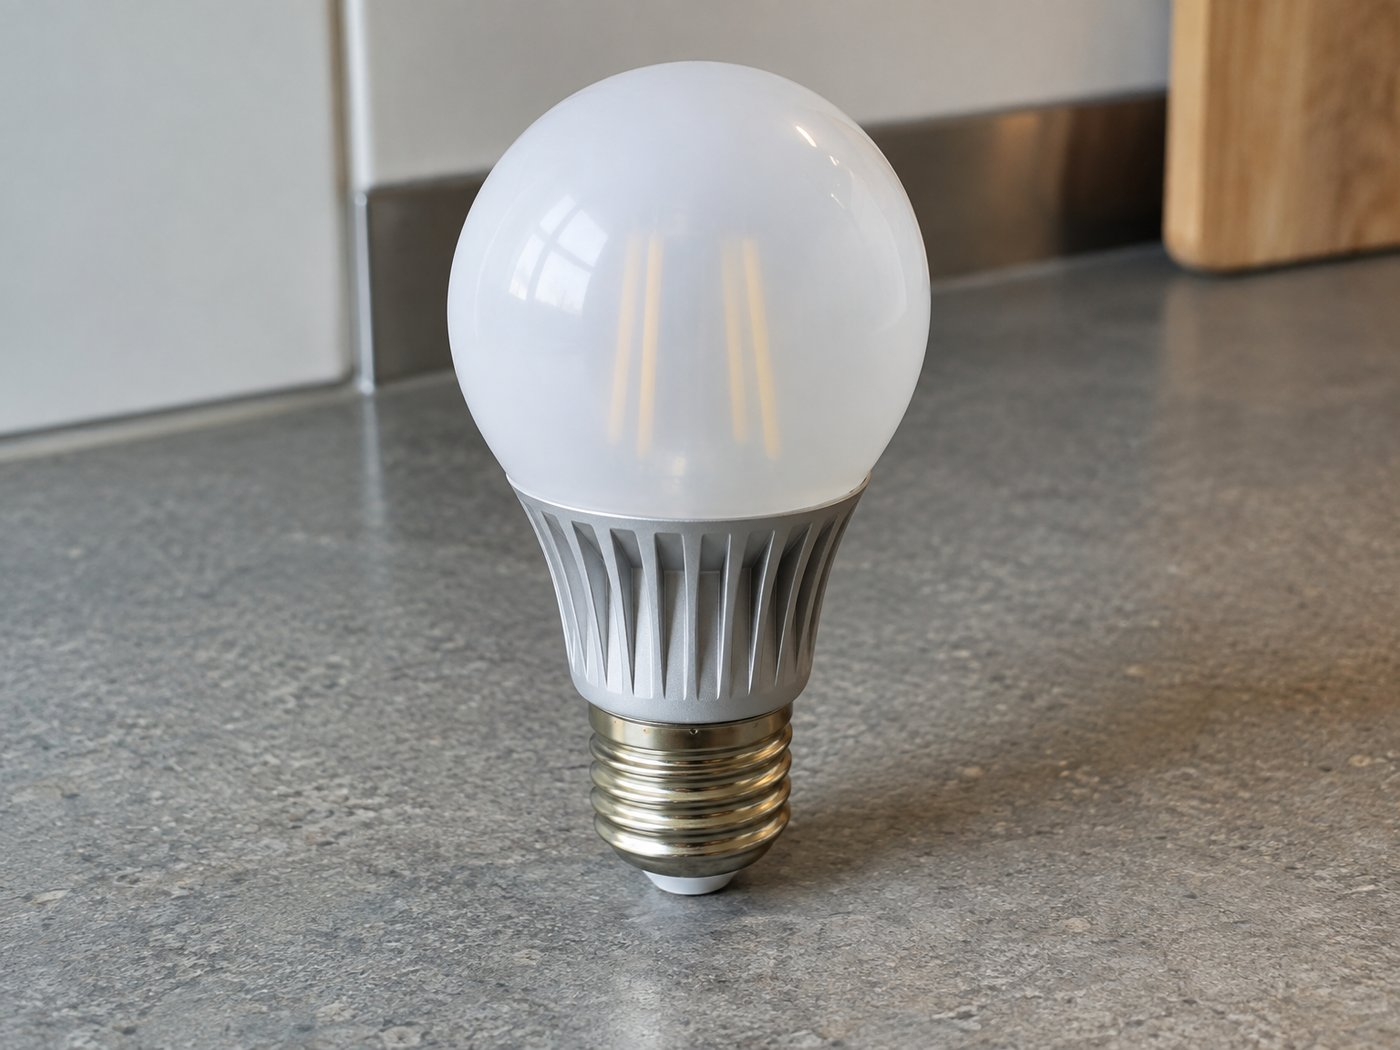
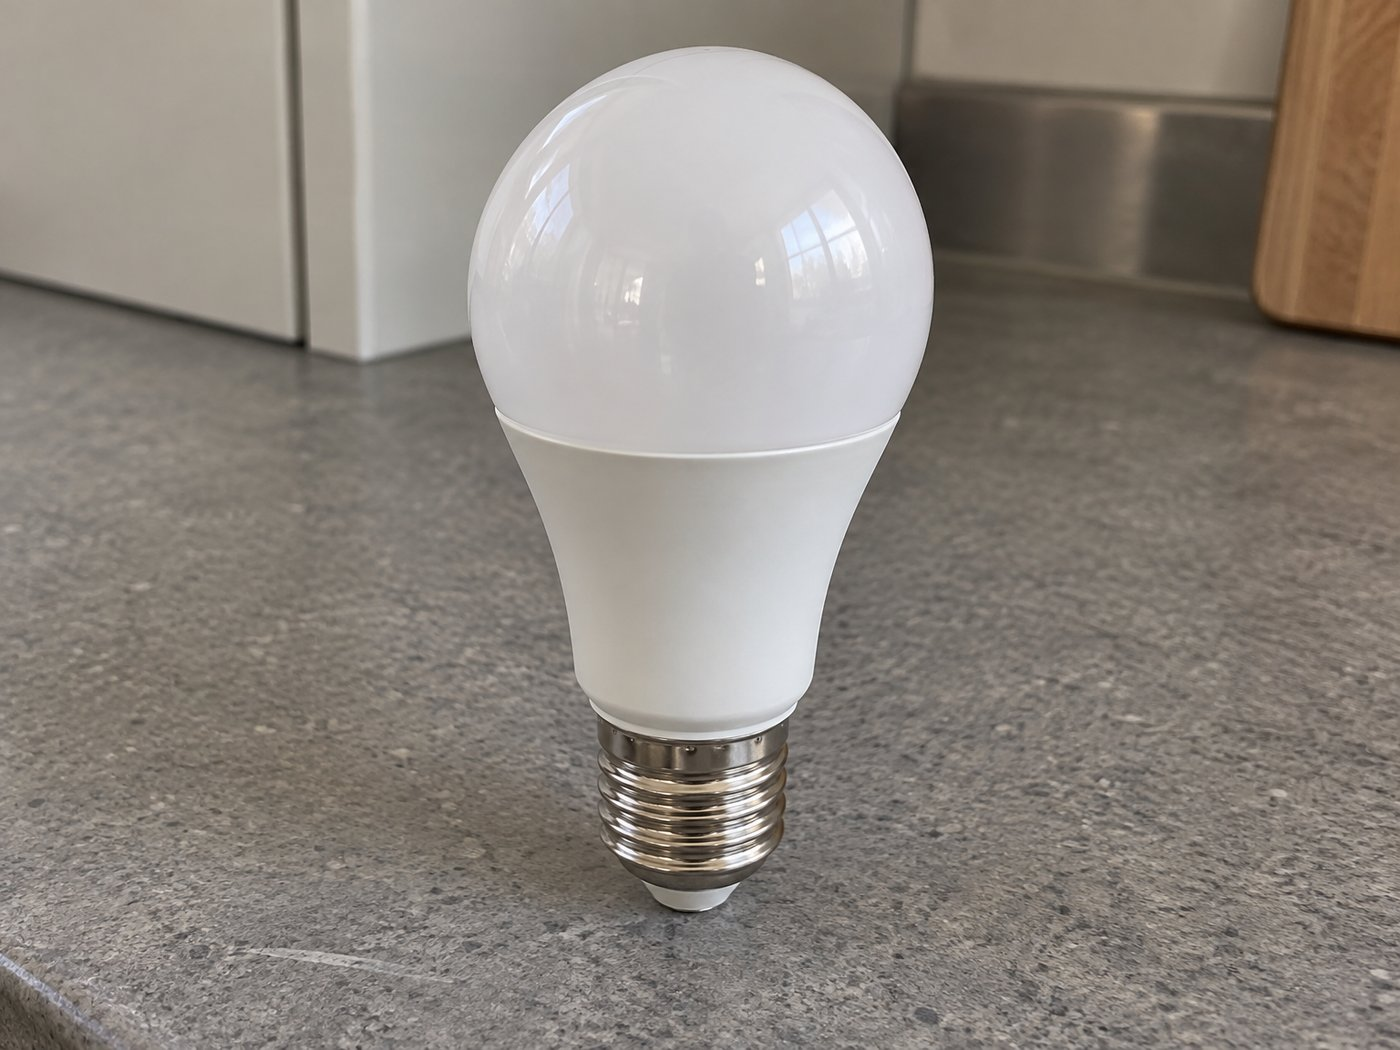
Simplify the bulb prompt: drop the filament strips
Jason 2026-09-11. The description combined a frosted envelope, a ribbed
aluminium heat sink and visible filament strips, which no real bulb has at
once: filament bulbs have clear glass and no heat sink, diffused ones have the
heat sink and no visible filament. Cut back to shape, finish, size and base,
343 characters down to 205, and it now renders as an ordinary frosted LED bulb.

diff --git a/CLAUDE.md b/CLAUDE.md
@@ -86,9 +86,10 @@ wood. All 30 object items are again distinct.
 **object_practice_04 is an LED light bulb on the kitchen counter** (Jason,
 2026-09-11), replacing the can opener, which failed twice on warped geometry
 and "resting on air". A bulb standing on its screw base gives an unambiguous
-contact point. Note the prompt describes a frosted envelope, a ribbed heat sink
-and visible filament strips together, which real bulbs do not combine; if the
-rater calls it odd, that mixture is the first thing to simplify.
+contact point. The first version described a frosted
+envelope, a ribbed heat sink and visible filament strips together, which no
+real bulb combines; Jason had the filament strips dropped and the description
+cut back to shape, finish, size and base. Keep it plain.
 
 Both had their qc blocks cleared, since those described images that no longer
 exist.
